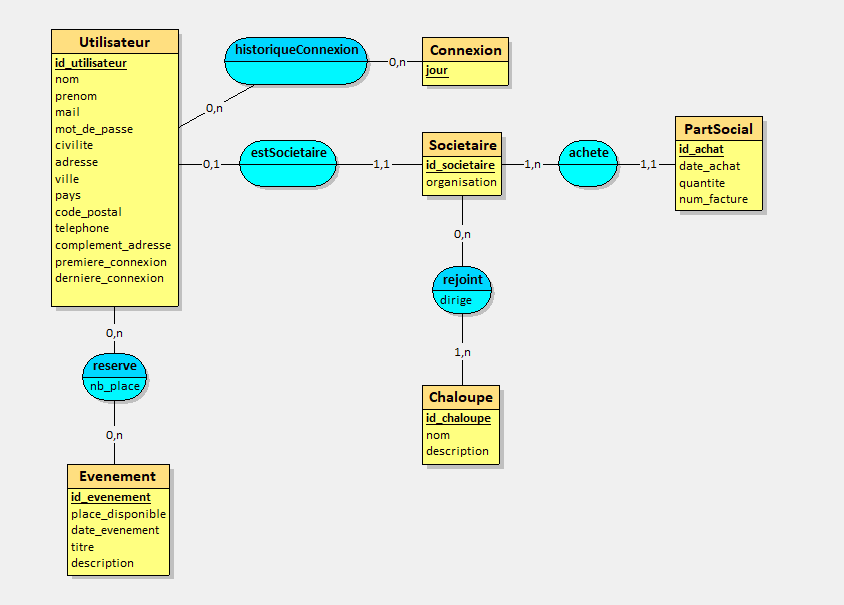
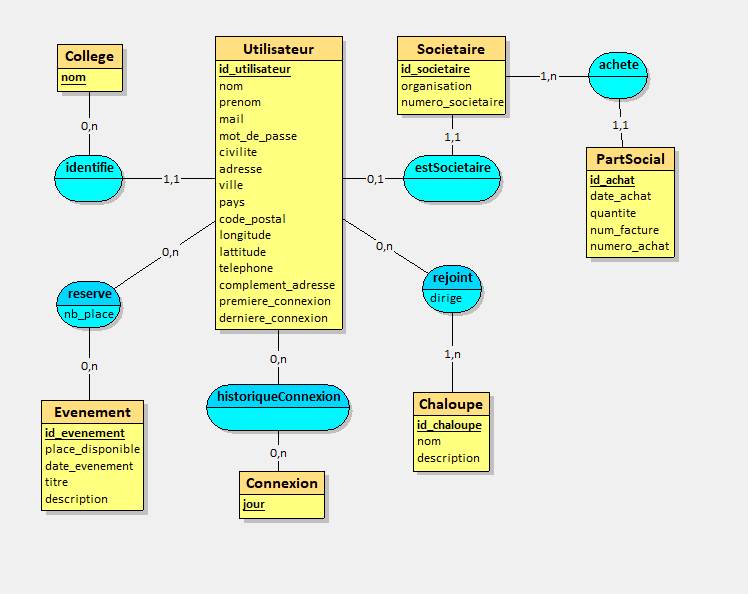
modification shema bdd

diff --git a/api/views/chaloupe.py b/api/views/chaloupe.py
@@ -6,7 +6,7 @@ from rest_framework.permissions import IsAuthenticated, IsAdminUser
 from django.core import exceptions
 
 from .generalFunctions import filtreTable, updateTable
-from ..models import Chaloupe, Rejoint, Societaire
+from ..models import Chaloupe, Rejoint, Utilisateur
 from ..serializers import ChaloupeSerializer, RejointSerializer
 
 class ChaloupeAPIView(viewsets.GenericViewSet):
@@ -110,13 +110,13 @@ class ChaloupeAPIView(viewsets.GenericViewSet):
         if not id_chaloupe:
             return Response({"message": "id_chaloupe est un parametre obligatoire"}, status=status.HTTP_400_BAD_REQUEST)
         
-        query = Societaire.objects.filter(id_utilisateur=request.user)
+        query = Utilisateur.objects.filter(id_utilisateur=request.user)
         if len(query) == 0:
-            return Response({"message": "L'utilisateur n'est pas societaire"}, status=status.HTTP_403_FORBIDDEN)
-        societaire = query[0]
+            return Response({"message": "L'utilisateur n'est pas utilisateur"}, status=status.HTTP_403_FORBIDDEN)
+        utilisateur = query[0]
 
         try:
-            entry = Rejoint.objects.get(id_chaloupe=id_chaloupe, id_societaire=societaire)
+            entry = Rejoint.objects.get(id_chaloupe=id_chaloupe, id_utilisateur=utilisateur)
             entry.delete()
             return Response({"message": "Participation supprime"}, status=status.HTTP_200_OK)
         except Rejoint.DoesNotExist:
@@ -135,10 +135,10 @@ class ChaloupeAPIView(viewsets.GenericViewSet):
             return Response({"message": "Certains champs ne sont pas remplis. Voici les champs necessaire : id_chaloupe"}, 
                             status=status.HTTP_400_BAD_REQUEST)
         
-        query = Societaire.objects.filter(id_utilisateur=request.user)
+        query = Utilisateur.objects.filter(id_utilisateur=request.user)
         if len(query) == 0:
-            return Response({"message": "L'utilisateur n'est pas societaire"}, status=status.HTTP_403_FORBIDDEN)
-        societaire = query[0]
+            return Response({"message": "L'utilisateur n'est pas utilisateur"}, status=status.HTTP_403_FORBIDDEN)
+        utilisateur = query[0]
 
         query = Chaloupe.objects.filter(id_chaloupe=id_chaloupe)
         if len(query) == 0:
@@ -147,7 +147,7 @@ class ChaloupeAPIView(viewsets.GenericViewSet):
 
         try:
             rejoint = Rejoint(
-                id_societaire = societaire,
+                id_utilisateur = utilisateur,
                 id_chaloupe = chaloupe,
                 dirige = 0
             )
@@ -158,7 +158,7 @@ class ChaloupeAPIView(viewsets.GenericViewSet):
             return Response({"message": str(e)}, status=status.HTTP_400_BAD_REQUEST)
 
 
-    """Permet à un utilisateur disposant des permissions necessaire de recuperer les societaires appartenant a une chaloupe
+    """Permet à un utilisateur disposant des permissions necessaire de recuperer les utilisateur appartenant a une chaloupe
     Le body de la requete doit contenir les champs 'colonne', 'filtre' et 'mode'.
     'colonne' contient les colonnes sur lesquelles les filtres seront appliqué,
     'filtre' contient les filtres qui seront appliqué sur les colonnes,
@@ -176,9 +176,9 @@ class ChaloupeAPIView(viewsets.GenericViewSet):
         except ValueError as e:
             return Response(str(e),status=status.HTTP_403_FORBIDDEN)
 
-    """Permet à un utilisateur disposant des permissions necessaire de modifier la participation d'un societaire a une chaloupe
-    Le body de la requete doit contenir les champs 'id_societaire', 'id_chaloupe', 'colonne', 'valeur'.
-    'id_societaire' et 'id_chaloupe' identifient la participation dont on veut modifier les informations, 
+    """Permet à un utilisateur disposant des permissions necessaire de modifier la participation d'un utilisateur a une chaloupe
+    Le body de la requete doit contenir les champs 'id_utilisateur', 'id_chaloupe', 'colonne', 'valeur'.
+    'id_utilisateur' et 'id_chaloupe' identifient la participation dont on veut modifier les informations, 
     'colonne' aux champs à modifier,
     'valeur' est la valeur qui sera placé dans le champs
     """
@@ -188,11 +188,11 @@ class ChaloupeAPIView(viewsets.GenericViewSet):
         if not id_chaloupe:
             return Response({"message": "id_chaloupe est un parametre obligatoire"}, status=status.HTTP_400_BAD_REQUEST)
         
-        id_societaire = request.data.get("id_societaire")
-        if not id_societaire:
-            return Response({"message": "id_societaire est un parametre obligatoire"}, status=status.HTTP_400_BAD_REQUEST)
+        id_utilisateur = request.data.get("id_utilisateur")
+        if not id_utilisateur:
+            return Response({"message": "id_utilisateur est un parametre obligatoire"}, status=status.HTTP_400_BAD_REQUEST)
 
-        entry = Rejoint.objects.filter(id_societaire=id_societaire, id_chaloupe=id_chaloupe)
+        entry = Rejoint.objects.filter(id_utilisateur=id_utilisateur, id_chaloupe=id_chaloupe)
         if len(entry) == 0:
             return Response({"message": "Aucune participation correspondant à ces id n'a été trouvé"}, status=status.HTTP_404_NOT_FOUND)
 
@@ -205,7 +205,7 @@ class ChaloupeAPIView(viewsets.GenericViewSet):
             return Response({"message": str(e)}, status=status.HTTP_400_BAD_REQUEST)
     
     """Permet à un utilisateur disposant des permissions necessaire de supprimer la participation d'un utilisateur à une chaloupe
-    Le body de la requete doit contenir le champs 'id_societaire' et 'id_chaloupe' qui identifient la participation que l'on veut supprimer
+    Le body de la requete doit contenir le champs 'id_utilisateur' et 'id_chaloupe' qui identifient la participation que l'on veut supprimer
     """
     @action(detail=False, methods=["delete"], permission_classes = [IsAdminUser])
     def deleteRejoint(self, request):
@@ -213,12 +213,12 @@ class ChaloupeAPIView(viewsets.GenericViewSet):
         if not id_chaloupe:
             return Response({"message": "id_chaloupe est un parametre obligatoire"}, status=status.HTTP_400_BAD_REQUEST)
         
-        id_societaire = request.data.get("id_societaire")
-        if not id_societaire:
-            return Response({"message": "id_societaire est un parametre obligatoire"}, status=status.HTTP_400_BAD_REQUEST)
+        id_utilisateur = request.data.get("id_utilisateur")
+        if not id_utilisateur:
+            return Response({"message": "id_utilisateur est un parametre obligatoire"}, status=status.HTTP_400_BAD_REQUEST)
 
         try:
-            entry = Rejoint.objects.get(id_chaloupe=id_chaloupe, id_societaire=id_societaire)
+            entry = Rejoint.objects.get(id_chaloupe=id_chaloupe, id_utilisateur=id_utilisateur)
             entry.delete()
             return Response({"message": "Participation supprime"}, status=status.HTTP_200_OK)
         except Rejoint.DoesNotExist:
@@ -232,18 +232,18 @@ class ChaloupeAPIView(viewsets.GenericViewSet):
     """
     @action(detail=False, methods=["post"], permission_classes = [IsAdminUser])
     def addRejoint(self, request):
-        id_societaire = request.data.get("id_societaire")
+        id_utilisateur = request.data.get("id_utilisateur")
         id_chaloupe = request.data.get("id_chaloupe")
         dirige = request.data.get("dirige")
         
-        if not all([i != None for i in [id_societaire, id_chaloupe, dirige]]):
-            return Response({"message": "Certains champs ne sont pas remplis. Voici les champs necessaire : id_societaire, id_chaloupe, dirige"}, 
+        if not all([i != None for i in [id_utilisateur, id_chaloupe, dirige]]):
+            return Response({"message": "Certains champs ne sont pas remplis. Voici les champs necessaire : id_utilisateur, id_chaloupe, dirige"}, 
                             status=status.HTTP_400_BAD_REQUEST)
         
-        query = Societaire.objects.filter(id_societaire=id_societaire)
+        query = Utilisateur.objects.filter(id_utilisateur=id_utilisateur)
         if len(query) == 0:
-            return Response({"message": "Aucun societaire n'a cette id"}, status=status.HTTP_400_BAD_REQUEST)
-        societaire = query[0]
+            return Response({"message": "Aucun utilisateur n'a cette id"}, status=status.HTTP_400_BAD_REQUEST)
+        utilisateur = query[0]
 
         query = Chaloupe.objects.filter(id_chaloupe=id_chaloupe)
         if len(query) == 0:
@@ -252,7 +252,7 @@ class ChaloupeAPIView(viewsets.GenericViewSet):
 
         try:
             rejoint = Rejoint(
-                id_societaire = societaire,
+                id_utilisateur = utilisateur,
                 id_chaloupe = chaloupe,
                 dirige = dirige
             )

diff --git a/api/test/chaloupe.py b/api/test/chaloupe.py
@@ -112,21 +112,12 @@ class RejointTest_correctUse(APITestCase):
             telephone="0123456789"
         )
 
-        self.college = College.objects.create(nom="College Test")
-
-        self.societaire = Societaire.objects.create(
-            organisation="Organisation Test",
-            numero_societaire="12345",
-            id_utilisateur=self.utilisateur,
-            college=self.college
-        )
-
         self.chaloupe = Chaloupe.objects.create(
             nom = "nom chaloupe",
             description = "description chaloupe"
         )
         
-        self.data = {"dirige": True, "id_societaire":self.societaire.id_societaire,"id_chaloupe":self.chaloupe.id_chaloupe}
+        self.data = {"dirige": True, "id_utilisateur":self.utilisateur.id_utilisateur,"id_chaloupe":self.chaloupe.id_chaloupe}
 
 
     def test_add(self):
@@ -136,7 +127,7 @@ class RejointTest_correctUse(APITestCase):
         #requete traité correctement
         self.assertEqual(response.status_code, 201) 
 
-        query = Rejoint.objects.filter(id_chaloupe=self.data["id_chaloupe"], id_societaire=self.data["id_societaire"])
+        query = Rejoint.objects.filter(id_chaloupe=self.data["id_chaloupe"], id_utilisateur=self.data["id_utilisateur"])
         
         #verifie l'existence de la chaloupe
         self.assertEqual(len(query), 1)
@@ -151,12 +142,12 @@ class RejointTest_correctUse(APITestCase):
         response = self.client.post(url, self.data, format="json")
 
         url = "/api/chaloupe/deleteRejoint/"
-        response = self.client.delete(url, {"id_chaloupe":self.data["id_chaloupe"], "id_societaire":self.data["id_societaire"]}, format="json")
+        response = self.client.delete(url, {"id_chaloupe":self.data["id_chaloupe"], "id_utilisateur":self.data["id_utilisateur"]}, format="json")
 
         #requete traité correctement
         self.assertEqual(response.status_code, 200)
 
-        query = Rejoint.objects.filter(id_chaloupe=self.data["id_chaloupe"], id_societaire=self.data["id_societaire"])
+        query = Rejoint.objects.filter(id_chaloupe=self.data["id_chaloupe"], id_utilisateur=self.data["id_utilisateur"])
         #verifie la supression de la chaloupe
         self.assertEqual(len(query), 0)
 
@@ -166,13 +157,13 @@ class RejointTest_correctUse(APITestCase):
         response = self.client.post(url, self.data, format="json")
 
         url = "/api/chaloupe/updateRejoint/"
-        newData = {"id_chaloupe":self.data["id_chaloupe"], "id_societaire":self.data["id_societaire"], "colonne": ["dirige"], "valeur" : [False]}
+        newData = {"id_chaloupe":self.data["id_chaloupe"], "id_utilisateur":self.data["id_utilisateur"], "colonne": ["dirige"], "valeur" : [False]}
         response = self.client.put(url, newData, format="json")
 
         #requete traité correctement
         self.assertEqual(response.status_code, 200)
 
-        query = Rejoint.objects.filter(id_chaloupe=self.data["id_chaloupe"], id_societaire=self.data["id_societaire"])
+        query = Rejoint.objects.filter(id_chaloupe=self.data["id_chaloupe"], id_utilisateur=self.data["id_utilisateur"])
         entree = query[0]
         #verifie la modification de la chaloupe
         self.assertEqual(entree.dirige, False)
@@ -182,7 +173,7 @@ class RejointTest_correctUse(APITestCase):
         url = "/api/chaloupe/addRejoint/"
         response = self.client.post(url, self.data, format="json")
 
-        param = {"colonne": ["id_chaloupe", "id_societaire"], "filtre" : [self.data["id_chaloupe"], self.data["id_societaire"]], "mode":["==", "=="]}
+        param = {"colonne": ["id_chaloupe", "id_utilisateur"], "filtre" : [self.data["id_chaloupe"], self.data["id_utilisateur"]], "mode":["==", "=="]}
         query_string = urlencode(param, doseq=True)
         url = f"/api/chaloupe/getRejoint/?{query_string}"
         response = self.client.get(url, format="json")
@@ -197,6 +188,6 @@ class RejointTest_correctUse(APITestCase):
         #verifie que la ligne récupéré est bien celle qui est cherché
         id_recup = data[0]["id_chaloupe"]
         self.assertEqual(id_recup, self.data["id_chaloupe"])
-        id_recup = data[0]["id_societaire"]
-        self.assertEqual(id_recup, self.data["id_societaire"])
+        id_recup = data[0]["id_utilisateur"]
+        self.assertEqual(id_recup, self.data["id_utilisateur"])
 

diff --git a/api/migrations/0001_initial.py b/api/migrations/0001_initial.py
@@ -1,4 +1,4 @@
-# Generated by Django 5.1.6 on 2025-02-28 12:05
+# Generated by Django 5.1.6 on 2025-03-11 10:58
 
 import django.db.models.deletion
 from django.conf import settings
@@ -25,8 +25,8 @@ class Migration(migrations.Migration):
                 ('adresse', models.CharField(max_length=200)),
                 ('ville', models.CharField(max_length=50)),
                 ('pays', models.CharField(max_length=50)),
-                ('latitude', models.FloatField()),
-                ('longitude', models.FloatField()),
+                ('latitude', models.FloatField(blank=True, null=True)),
+                ('longitude', models.FloatField(blank=True, null=True)),
                 ('code_postal', models.CharField(blank=True, max_length=6, null=True)),
                 ('telephone', models.CharField(max_length=15)),
                 ('complement_adresse', models.CharField(blank=True, max_length=100, null=True)),
@@ -103,6 +103,18 @@ class Migration(migrations.Migration):
             },
         ),
         migrations.CreateModel(
+            name='Rejoint',
+            fields=[
+                ('id', models.BigAutoField(auto_created=True, primary_key=True, serialize=False, verbose_name='ID')),
+                ('dirige', models.BooleanField()),
+                ('id_chaloupe', models.ForeignKey(on_delete=django.db.models.deletion.CASCADE, to='api.chaloupe')),
+                ('id_utilisateur', models.ForeignKey(on_delete=django.db.models.deletion.CASCADE, to=settings.AUTH_USER_MODEL)),
+            ],
+            options={
+                'unique_together': {('id_utilisateur', 'id_chaloupe')},
+            },
+        ),
+        migrations.CreateModel(
             name='Reserve',
             fields=[
                 ('id', models.BigAutoField(auto_created=True, primary_key=True, serialize=False, verbose_name='ID')),
@@ -112,18 +124,6 @@ class Migration(migrations.Migration):
             ],
             options={
                 'unique_together': {('id_utilisateur', 'id_evenement')},
-            },
-        ),
-        migrations.CreateModel(
-            name='Rejoint',
-            fields=[
-                ('id', models.BigAutoField(auto_created=True, primary_key=True, serialize=False, verbose_name='ID')),
-                ('dirige', models.BooleanField()),
-                ('id_chaloupe', models.ForeignKey(on_delete=django.db.models.deletion.CASCADE, to='api.chaloupe')),
-                ('id_societaire', models.ForeignKey(on_delete=django.db.models.deletion.CASCADE, to='api.societaire')),
-            ],
-            options={
-                'unique_together': {('id_societaire', 'id_chaloupe')},
             },
         ),
     ]

diff --git a/api/populate.py b/api/populate.py
@@ -351,7 +351,7 @@ def popRejoint():
     listeEntrees = []
 
     chaloupes = list(Chaloupe.objects.all())
-    users = list(Societaire.objects.all())
+    users = list(Utilisateur.objects.all())
 
     for chaloupe in chaloupes:
         nbPersonne = int(max(1,normalvariate(20,5)))
@@ -366,7 +366,7 @@ def popRejoint():
             present.append(user.id_utilisateur)
 
             listeEntrees.append(Rejoint(
-                id_societaire = user,
+                id_utilisateur = user,
                 id_chaloupe = chaloupe,
                 dirige = i==0,
             ))

diff --git a/api/models/chaloupe.py b/api/models/chaloupe.py
@@ -7,9 +7,9 @@ class Chaloupe(models.Model):
 
 
 class Rejoint(models.Model):
-    id_societaire = models.ForeignKey('Societaire', on_delete=models.CASCADE)
+    id_utilisateur = models.ForeignKey('Utilisateur', on_delete=models.CASCADE)
     id_chaloupe = models.ForeignKey('Chaloupe', on_delete=models.CASCADE)
     dirige = models.BooleanField()
 
     class Meta:
-        unique_together = ('id_societaire', 'id_chaloupe')
+        unique_together = ('id_utilisateur', 'id_chaloupe')
